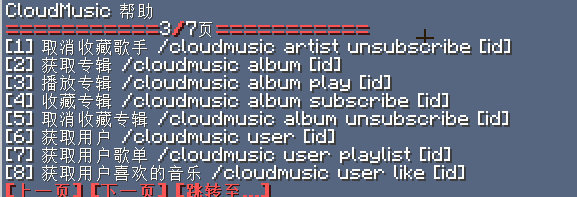
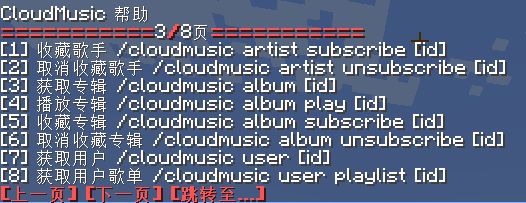
v0.4.0

diff --git a/src/main/java/fengliu/cloudmusic/command/MusicCommand.java b/src/main/java/fengliu/cloudmusic/command/MusicCommand.java
@@ -30,8 +30,6 @@ public class MusicCommand {
     private static My my = null;
     public static boolean loadQRCode = false;
     private static final Text[] helps = {
-            Text.translatable("cloudmusic.help"),
-
             Text.translatable("cloudmusic.help.music"),
             Text.translatable("cloudmusic.help.music.play"),
             Text.translatable("cloudmusic.help.music.like"),

diff --git a/README.md b/README.md
@@ -2,6 +2,8 @@
 
 #### 在 mc 中内置网易云音乐播放器
 
+#### 前置: MaliLib, Fabric API
+
 #### 出现任何问题在 Issues 前请检查 mod 版本是否为最新
 
 ![logo.png](https://github.com/FengLiuFeseliud/CloudMusic-Mod/blob/main/src/main/resources/assets/cloudmusic/icon.png?raw=true)
@@ -24,11 +26,15 @@
 
 ![login_4.png](https://github.com/FengLiuFeseliud/CloudMusic-Mod/blob/main/img/login_4.png?raw=true)
 
-## 登录 - 设置 cookie
+## 配置 / 热键
 
-在 [网易云音乐 WEB](https://music.163.com/) 登录后, 使用浏览器开发者复制 cookie 到最后游戏目录 `config/cloud_music_config`  配置文件
+使用 MaliLib (masa 全家桶前置, masa 全家桶大伙肯定至少用一个罢)
 
-![cookie.png](https://github.com/FengLiuFeseliud/CloudMusic-Mod/blob/main/img/cookie.png?raw=true)
+高自定义, 多热键
+
+[con1.png](https://github.com/FengLiuFeseliud/CloudMusic-Mod/blob/main/img/con1.png?raw=true)
+
+[con2.png](https://github.com/FengLiuFeseliud/CloudMusic-Mod/blob/main/img/con2.png?raw=true)
 
 ## 指令
 
@@ -47,3 +53,5 @@
 ![6.png](https://github.com/FengLiuFeseliud/CloudMusic-Mod/blob/main/img/6.png?raw=true)
 
 ![7.png](https://github.com/FengLiuFeseliud/CloudMusic-Mod/blob/main/img/7.png?raw=true)
+
+![8.png](https://github.com/FengLiuFeseliud/CloudMusic-Mod/blob/main/img/8.png?raw=true)
